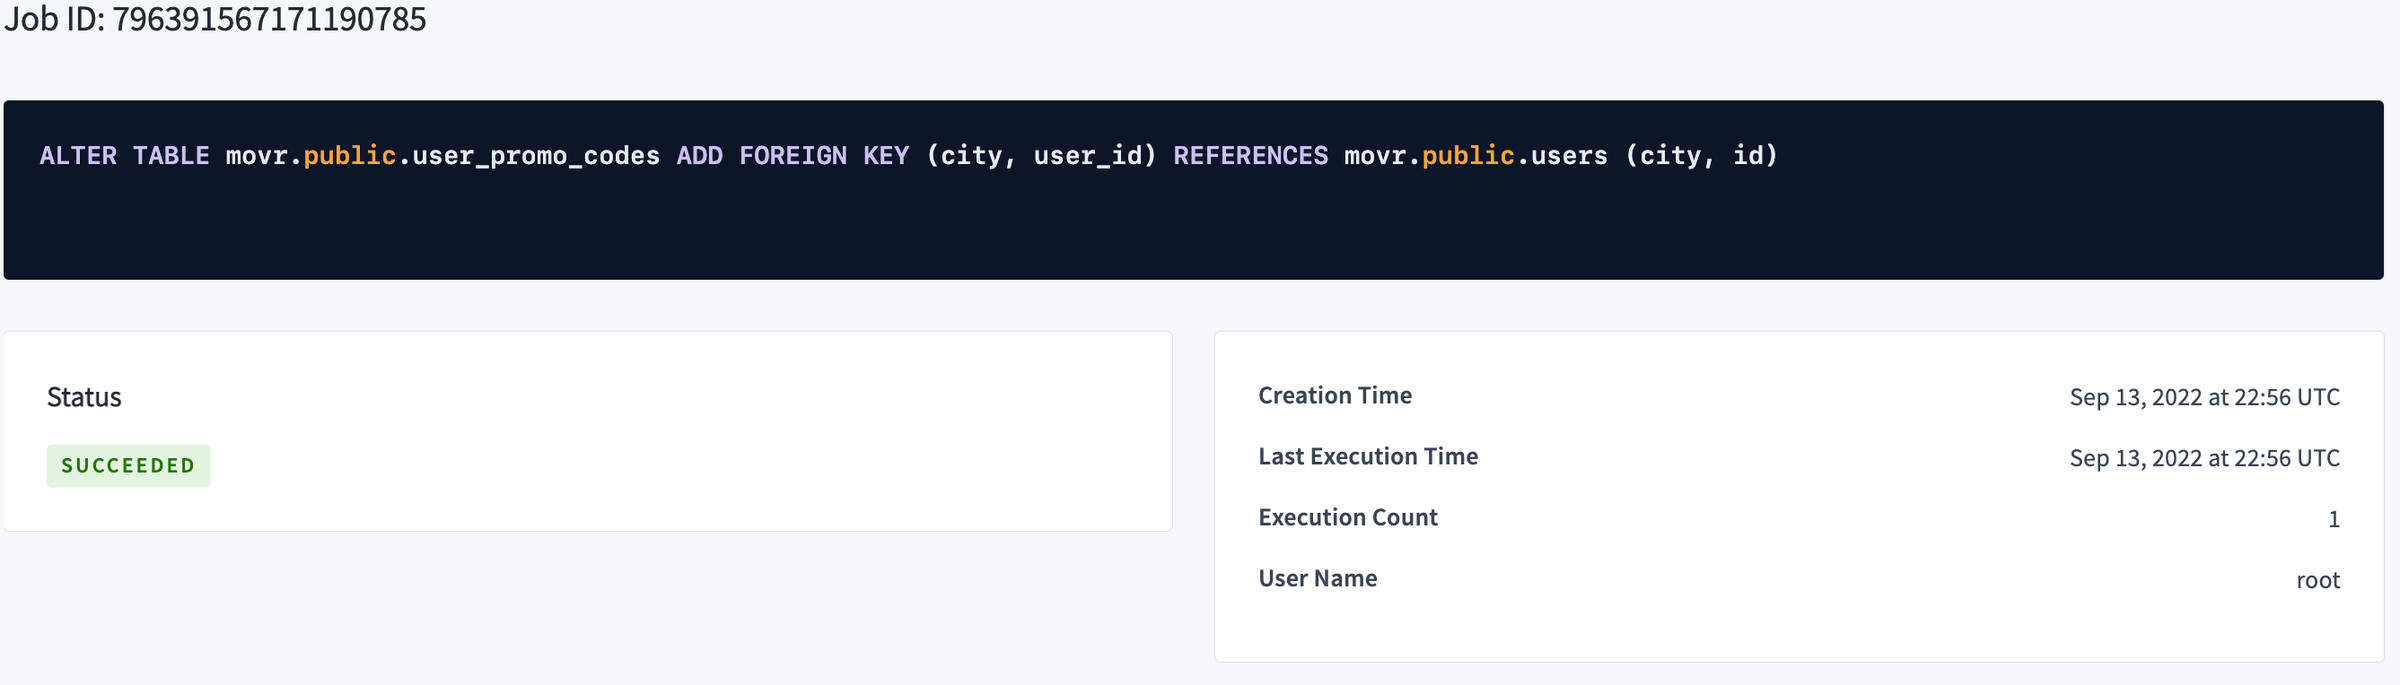
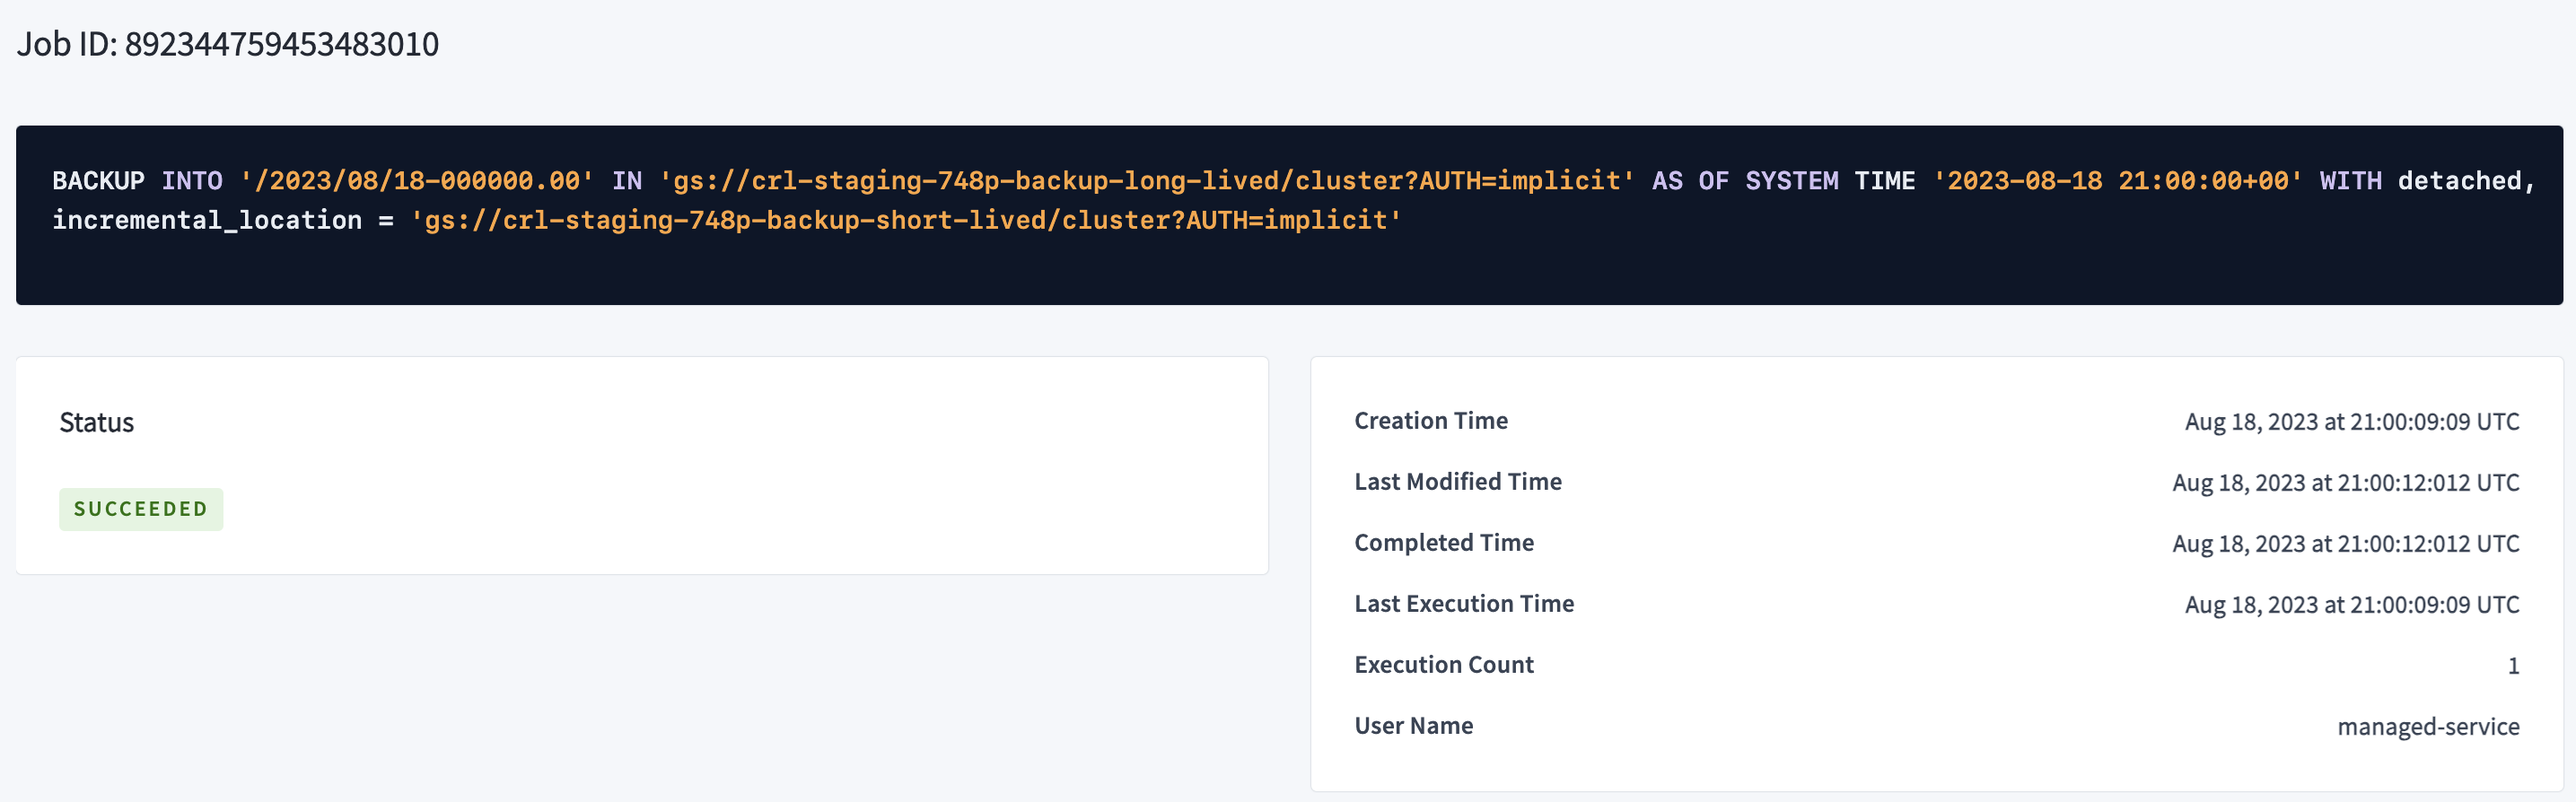
Updated Jobs pages for Cloud and DB Consoles, renamed Modified Timestamp to Last Modified Timestamp with updated images. Updated 23.2 files.

diff --git a/src/current/_includes/v23.2/ui/jobs.md b/src/current/_includes/v23.2/ui/jobs.md
@@ -8,7 +8,7 @@ The Jobs list is designed for you to manage pending work. It is not intended to 
 
 Use the **Jobs** table to see recently created and completed jobs.
 
-The following screenshot shows `ALTER TABLE` jobs:
+The following screenshot shows `BACKUP` jobs:
 
 <img src="{{ 'images/v23.2/ui_jobs_page.png' | relative_url }}" alt="DB Console Jobs Page" style="border:1px solid #eee;max-width:100%" />
 
@@ -24,7 +24,7 @@ The status line after the filters shows the number of jobs displayed and a messa
 
 The table is paginated with 20 jobs per page. Click the page controls following the table to traverse pages.
 
-The following are displayed for each job:
+The following columns are available for each job. Click **Columns** to select the columns to display in the table.
 
 Column | Description
 ----------|------------
@@ -33,7 +33,7 @@ Status | Current [job status](#job-status) or completion progress.
 Job ID | Unique job ID. This value is used to [pause]({{ link_prefix }}pause-job.html), [resume]({{ link_prefix }}resume-job.html), or [cancel]({{ link_prefix }}cancel-job.html) jobs.
 User Name | User that created the job.
 Creation Time (UTC) | Date and time the job was created.
-Modified Time (UTC) | Date and time the job was modified.
+Last Modified Time (UTC) | Date and time the job was last modified.
 Last Execution Time (UTC) | Date and time the job was last executed.
 High-water Timestamp  | A checkpoint for a [changefeed job's progress]({{ link_prefix }}monitor-and-debug-changefeeds.html#monitor-a-changefeed) that guarantees that all changes before (or at) the timestamp have been emitted. Hover over the high-water timestamp to view the [system time]({{ link_prefix }}as-of-system-time.html).
 Execution Count | Number of times the job was executed.
@@ -59,7 +59,17 @@ Status | Description
  
 ## Job details
 
-The job ID, creation time, user, status, and error messages (if any) are also shown.
+The details show:
+
+- **Job ID**
+- **Status**
+- **Creation Time**
+- **Last Modified Time**
+- **Completed Time**
+- **Last Execution Time**
+- **Execution Count**
+- **User Name**
+- error messages (if any)
 
 <img src="{{ 'images/v23.2/ui_jobs_page_details.png' | relative_url }}" alt="DB Console Jobs Page" style="border:1px solid #eee;max-width:100%" />
 
